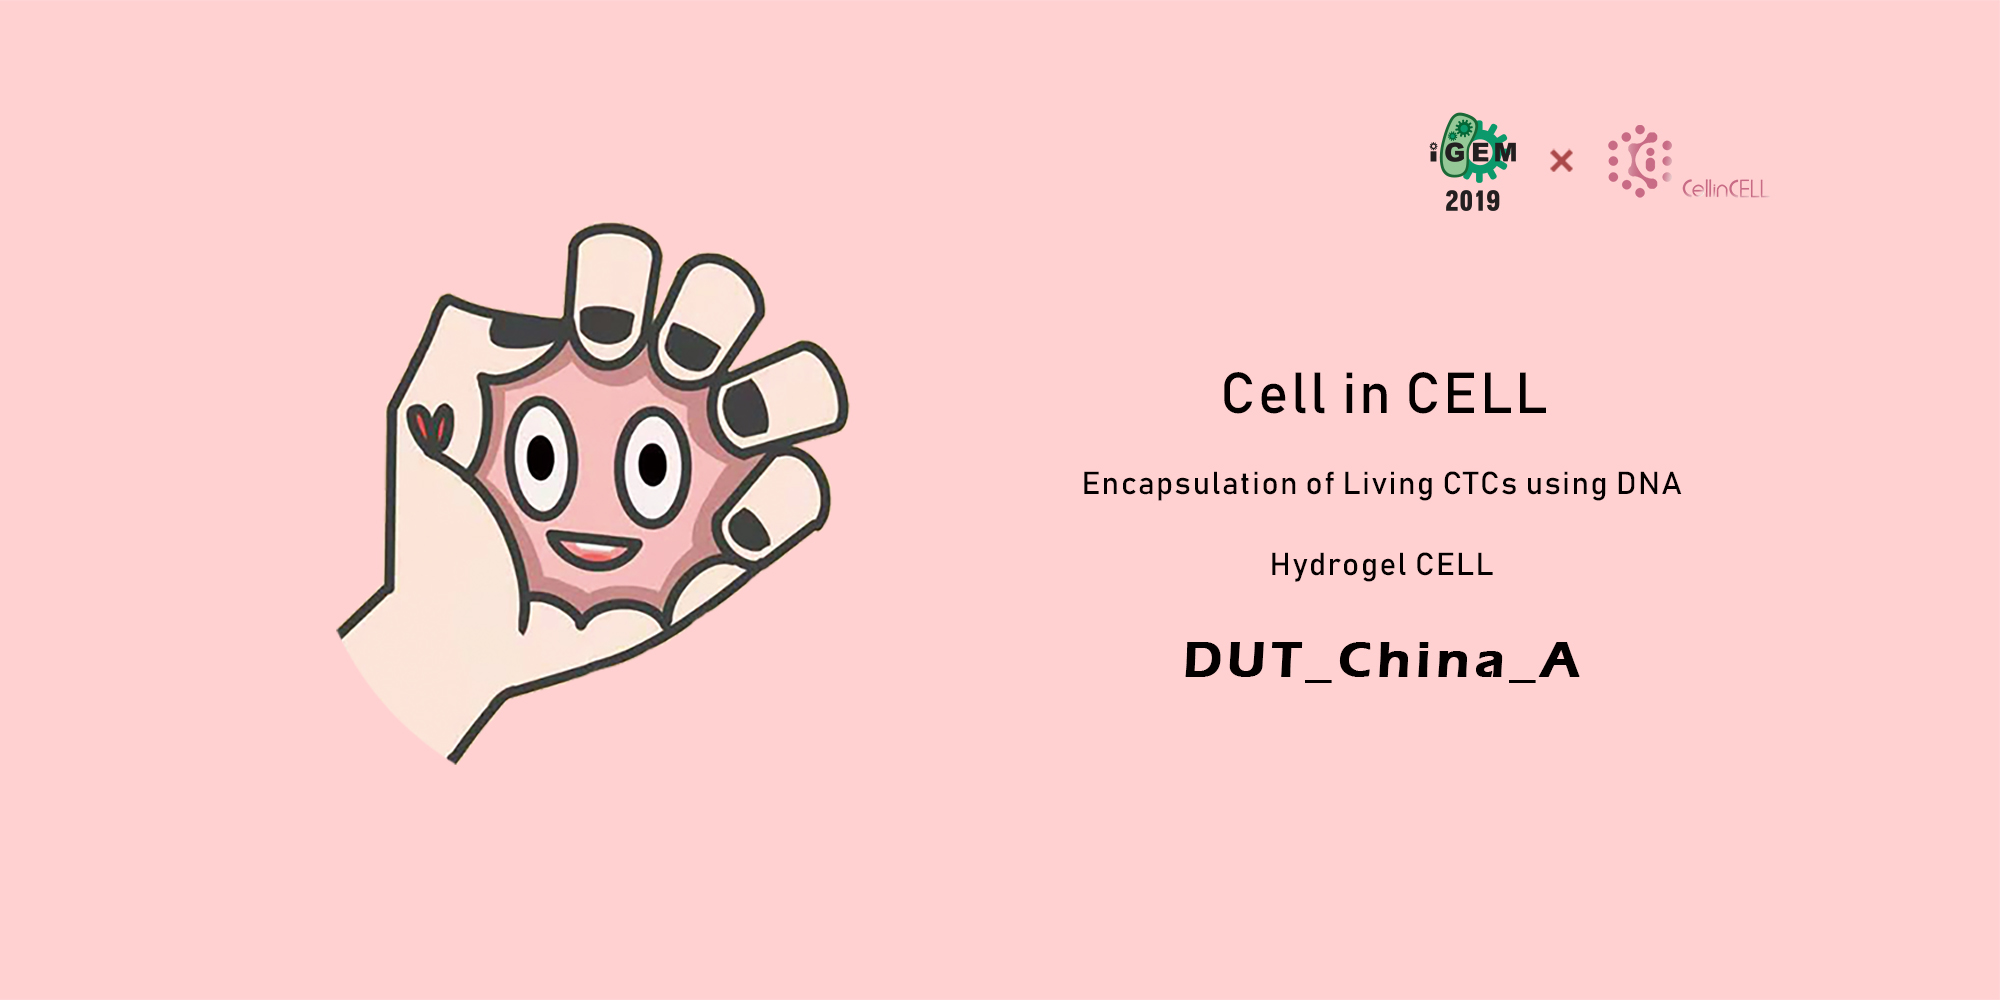
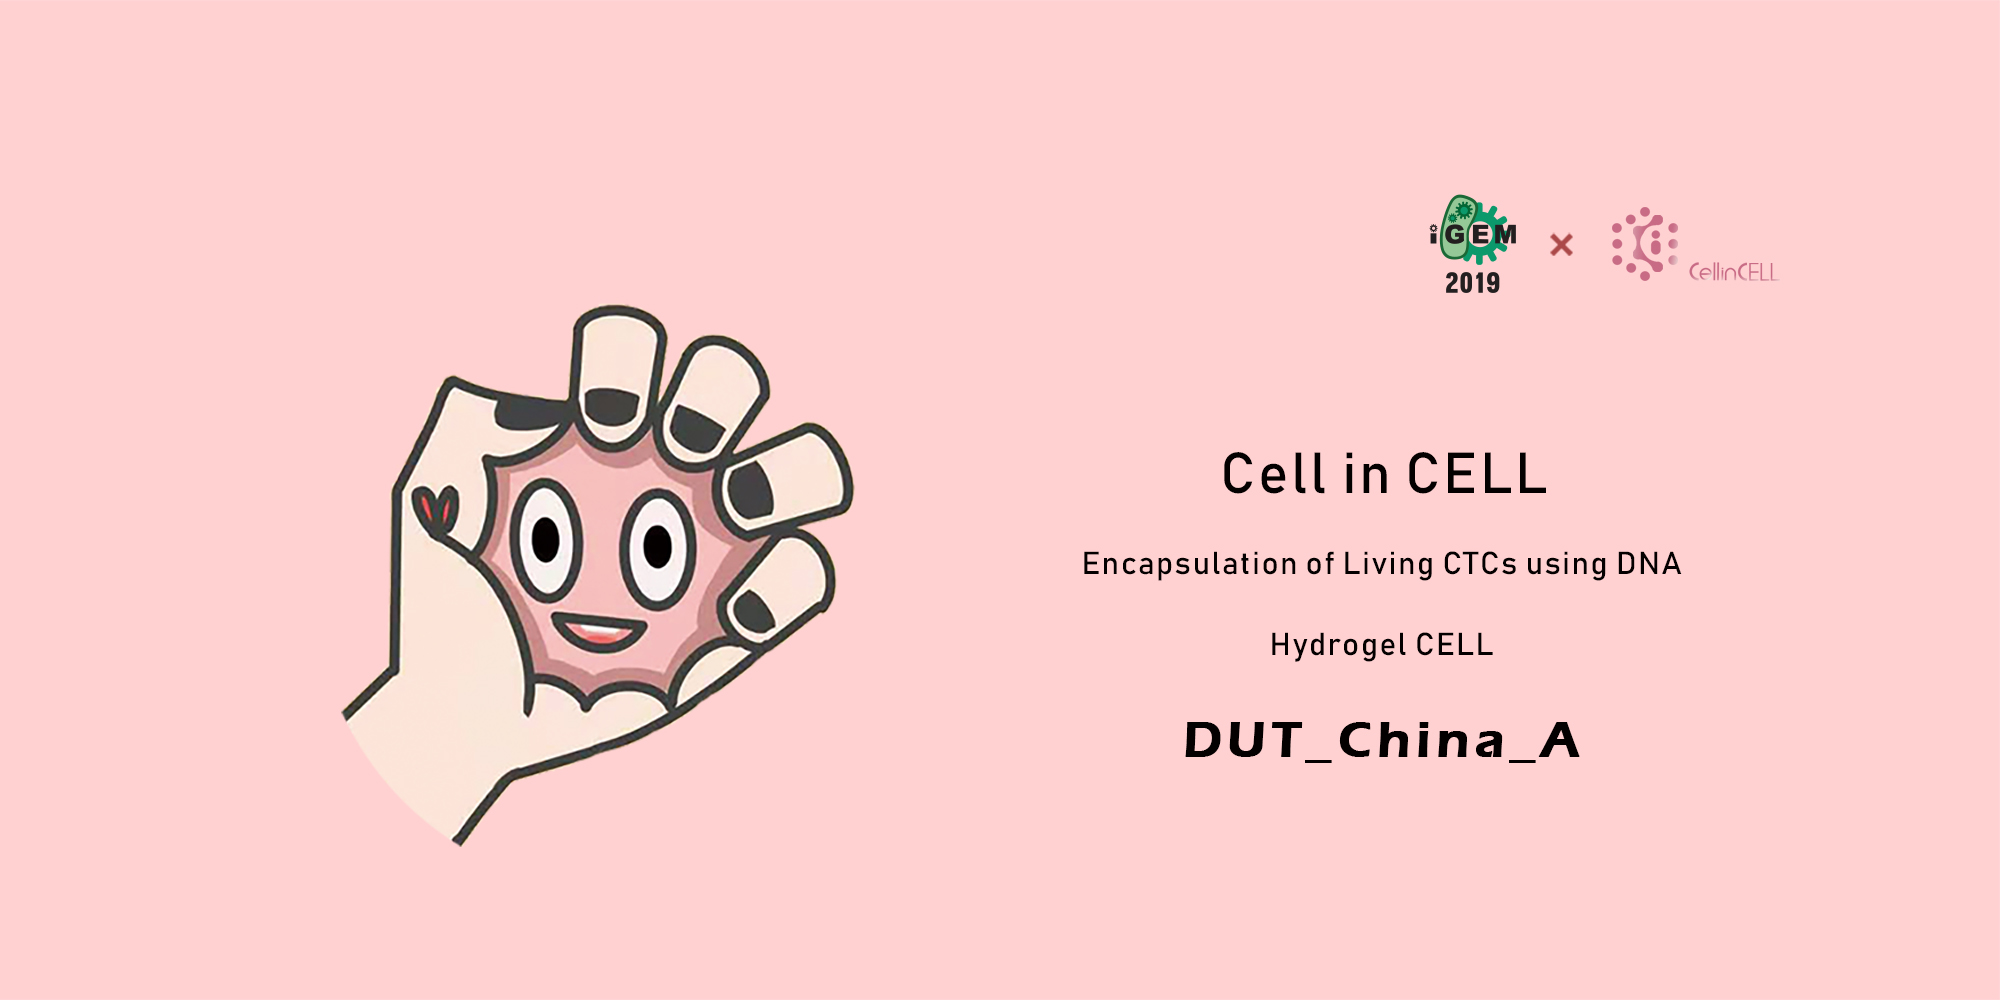
improve background image display

diff --git a/index.html b/index.html
@@ -24,7 +24,7 @@
     <header class="v-header container">
       <div class="fullscreen-video-wrap">
         <!-- <video src="./resources/type.mov" autoplay="true" loop="true"></video> -->
-        <img src="./resources/homepage.jpg" />
+        <!-- <img src="./resources/homepage.jpg" /> -->
       </div>
       <div class="header-overlay"></div>
       <div class="header-content">

diff --git a/css/homepage-style.css b/css/homepage-style.css
@@ -19,12 +19,12 @@
   position: absolute;
   top: 0;
   left: 0;
-  width: 100%;
-  height: 100vh;
-  overflow: hidden;
-  text-indent: -15vw;
+  background-image: url(../resources/homepage.jpg);
+  background-size: cover;
   width: 100%;
   height: 100%;
+  overflow: hidden;
+  text-indent: -15vw;
 }
 
 .header-overlay {
